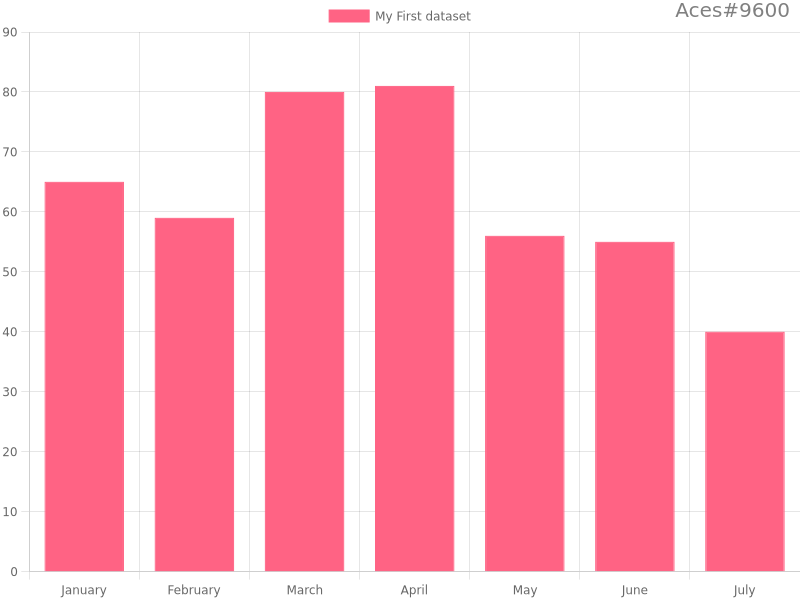
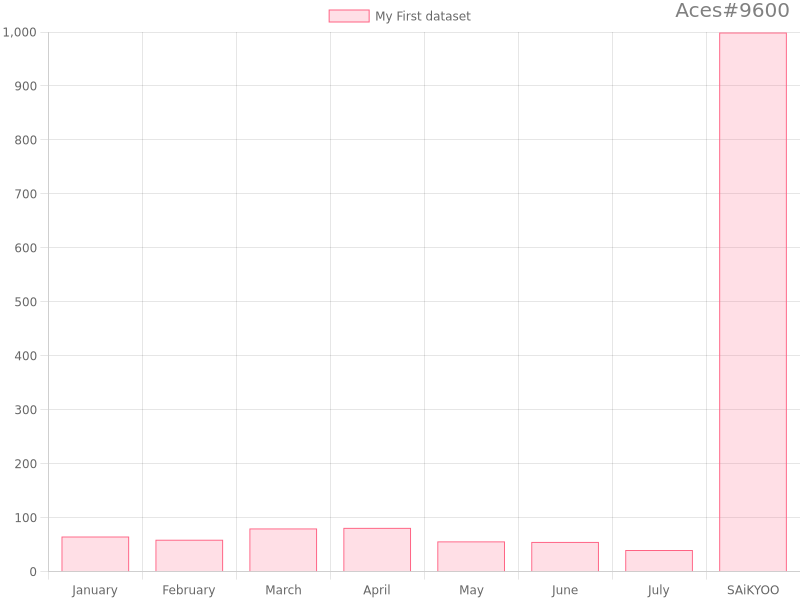
🛋💘 Checkpoint ./server.js:62000883/2810

diff --git a/server.js b/server.js
@@ -8,25 +8,29 @@ const app = express();
 
 
 
-
 import { createCanvas } from 'canvas';
 import { Chart } from 'chart.js/auto';
+
 
 const width = 800;
 const height = 600;
 const canvas = createCanvas(width, height);
 const ctx = canvas.getContext('2d');
 
+// 白色で背景を塗りつぶす
+ctx.fillStyle = 'white';
+ctx.fillRect(0, 0, width, height);
+
 const configuration = {
   type: 'bar',
   data: {
-    labels: ['January', 'February', 'March', 'April', 'May', 'June', 'July'],
+    labels: ['January', 'February', 'March', 'April', 'May', 'June', 'July', 'SAiKYOO'],
     datasets: [{
       label: 'My First dataset',
       backgroundColor: 'rgba(255, 99, 132, 0.2)',
       borderColor: 'rgba(255, 99, 132, 1)',
       borderWidth: 1,
-      data: [65, 59, 80, 81, 56, 55, 40],
+      data: [65, 59, 80, 81, 56, 55, 40, 999],
     }]
   },
   options: {
@@ -41,7 +45,6 @@ const configuration = {
 // グラフの描画
 new Chart(ctx, configuration);
 
-
 const watermarkText = 'Aces#9600';
 ctx.font = '20px Arial';
 ctx.fillStyle = 'rgba(0, 0, 0, 0.5)'; // 半透明の黒色
@@ -53,7 +56,7 @@ ctx.fillText(watermarkText, width - textWidth - 10, 10);
 async function saveChart() {
   try {
     const buffer = canvas.toBuffer('image/png');
-    await fs.writeFile('chart.png', buffer);
+    await fs.writeFile('chart.png', buffer); // fs.promisesを使う
     console.log('Chart saved to chart.png');
   } catch (err) {
     console.error('Error saving chart:', err);
@@ -62,6 +65,7 @@ async function saveChart() {
 
 // グラフを保存
 saveChart();
+
 
 
 const intents = [
